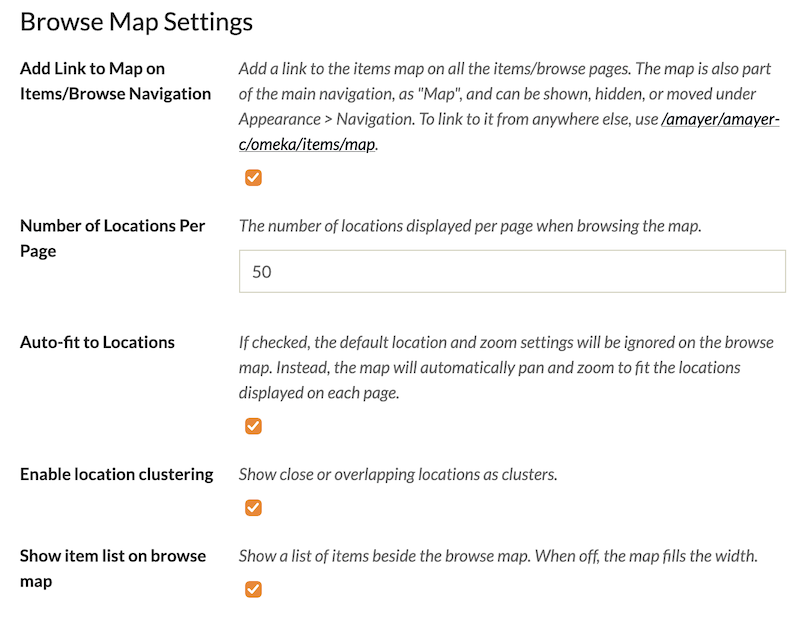
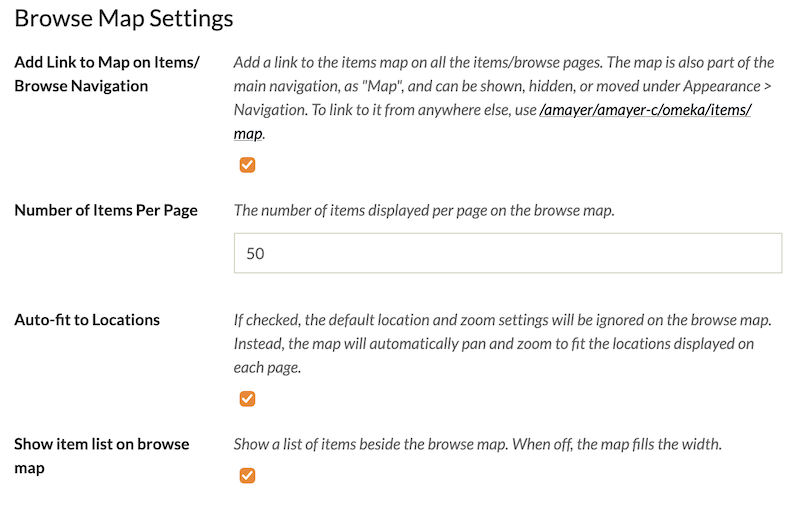
updates

diff --git a/docs/Plugins/Geolocation.md b/docs/Plugins/Geolocation.md
@@ -21,6 +21,13 @@ The first section contains the general appearance settings for your maps on both
 - **Default Longitude**: set the center point of the map's longitude (East/West), in degrees, between -180 and 180. Using numbers after the decimal point will pinpoint the location more precisely.
 - **Default Zoom Level**: Use a whole number of 0 of greater. 0 is the most zoomed out. A value of 15 will result in a map showing roughly one square mile.
 - **Geocoder**: Select a service to use for looking up coordinates when an address is entered. The default is "OpenStreetMap Nominatim". You may find other services work better depending on where your work is focused across the globe. 
+- **Enable location clustering**: A checkbox. When checked, markers that are very close to each other (at the current zoom level) will cluster together and be represented by a number (indicating the number of markers).
+
+A map with "Enable location clustering" unchecked:  
+![A low-detail map showing the British Isles, with a number of blue map markers throughout England](../doc_files/plugin_images/geolocation_nocluster.png)
+
+The same map with "Enable location clustering" checked:   
+![A low-detail map of the British Isles, with one blue map marker in southwest England and a yellow circle labelled "17" roughly over London](../doc_files/plugin_images/geolocation_cluster.png)
 
 ### Basemap Settings
 
@@ -93,14 +100,7 @@ The settings in this section also influence the "Search by Address function" tha
 - **Add link to map on Items/Browse navigation**: This will make a "Browse Map" link appear alongside the "Browse Items", "Browse Tags", and "Advanced Search" links at the top of those pages. See the image below in the "View a public map" section. 
 -   **Number of Locations Per Page**: The browsable map has pagination; set the number of items per map page with a whole number.
 -   **Auto-fit to Locations**: If checked, the browse map will ignore default location and zoom settings designated in General Settings and instead automatically contain all the locations of the items displayed (on that page).
--   A checkbox to **Enable location clustering**. When checked, markers that are very close to each other will cluster together and be represented by a number (indicating the number of markers).
 - A checkbox to **Show item list on browse map**, which offers an accessible readout of item titles that are represented on the map as features (pins and shapes). This list will show a number of items according to the "Number of locations per page" setting above, keeping in mind that items can have many locations each. 
-
-A map with "Enable location clustering" unchecked:  
-![A low-detail map showing the British Isles, with a number of blue map markers throughout England](../doc_files/plugin_images/geolocation_nocluster.png)
-
-The same map with "Enable location clustering" checked:   
-![A low-detail map of the British Isles, with one blue map marker in southwest England and a yellow circle labelled "17" roughly over London](../doc_files/plugin_images/geolocation_cluster.png)
 
 ### Item map settings
 
@@ -179,7 +179,7 @@ From this view, you may also search mapped items using the item advanced search.
 
 Visitors to your Omeka site can now use a map to browse through all of your geolocated items. The generic map showing all of your items with geolocation metadata can be found at `yourclassicsite/items/map`, which you can enable or disable in your site navigation. Each item's view page will contain a map if the item has at least one location set. 
 
-All maps across the entire site, including Exhibits and Contribution forms, will show the visual settings according to your configuration, including default zoom and latitude/longitude, overlays, and basemaps. 
+All maps across the entire site, including Exhibits and Contribution forms, will show the visual settings according to your configuration, including default zoom and latitude/longitude, overlays, and basemaps. Every map has a "Fit all" button that users can press to zoom the map out (or in) far enough to contain all available markers. 
 
 If you enable "Add Link to Map on Items/Browse Navigation" in the plugin configuration, the "Browse Map" link will also be added to the secondary navigation on the `items/browse` page. 
 
